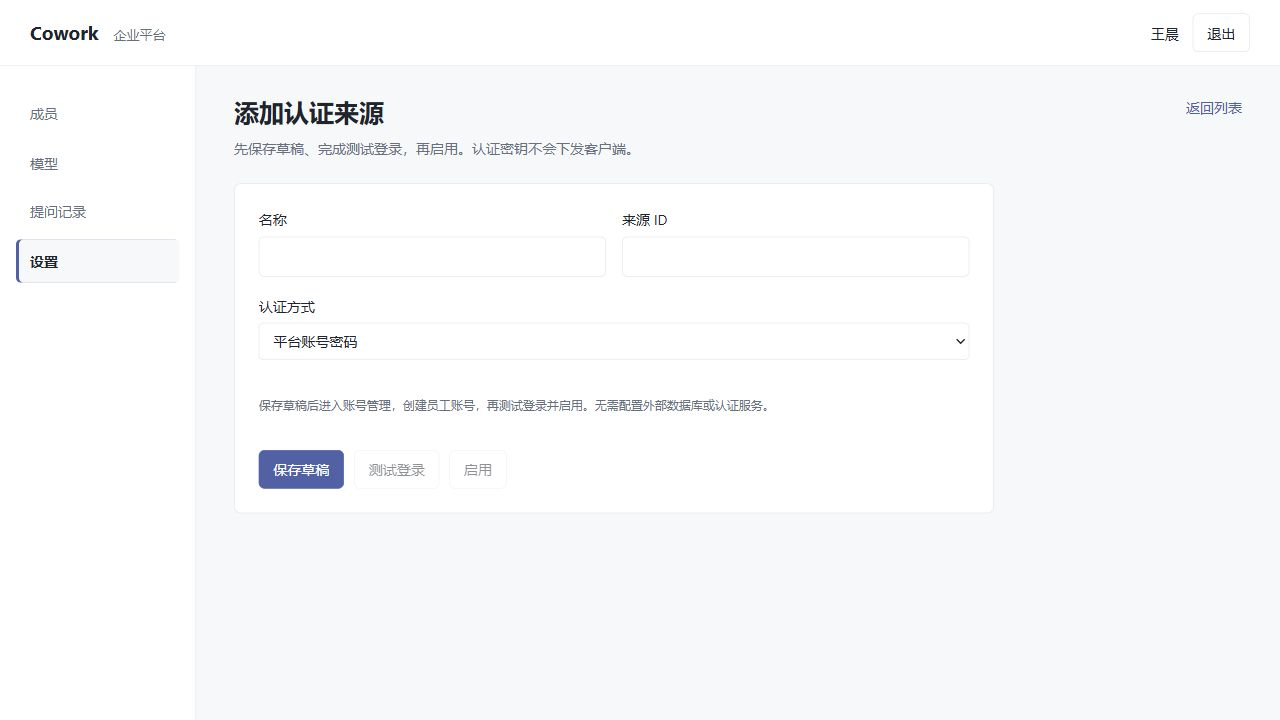
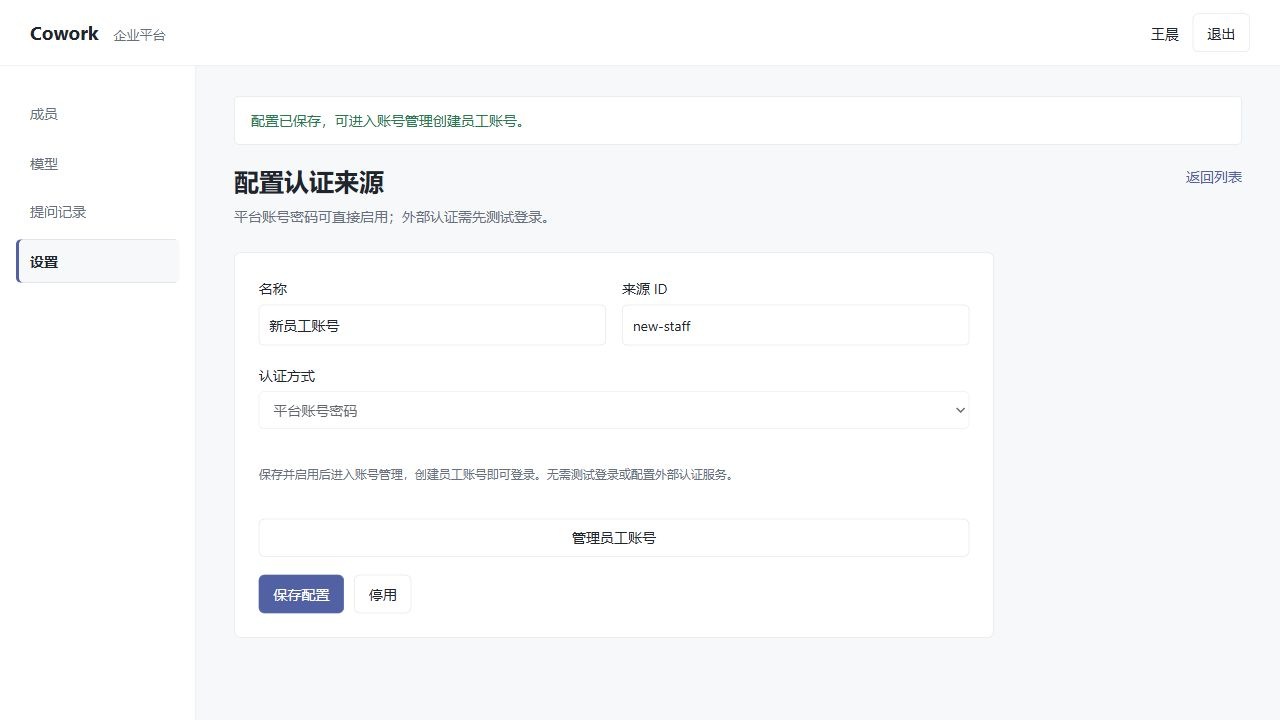
fix: 简化平台账号启用并修复浏览器密码登录

diff --git a/web/platform/ui/platform.js b/web/platform/ui/platform.js
@@ -94,14 +94,14 @@ async function questions(){
 }
 async function settingsPage(){
   const data=await api("/admin/settings");heading("设置","管理企业认证、客户端下载与运行状态。");
-  content.insertAdjacentHTML("beforeend",`<section><h2>账号认证</h2><div id="sources">${data.sources.length?data.sources.map(s=>`<div class="source-row"><div class="summary"><strong>${esc(s.name)}</strong><div class="muted">${esc(authNames[s.mode]||s.mode)} · ${s.enabled?"已启用":"草稿"} · ${s.verified?"已验证":"待验证"}</div></div><button data-source="${esc(s.id)}">配置</button></div>`).join(""):empty("尚未配置企业认证。添加来源并完成测试后，员工即可登录。")}</div><div class="toolbar" id="source-actions"></div></section><section class="section"><h2>客户端分发</h2><p>上传标准包，校验后生成企业包，再发布给员工。</p><a class="button" data-route href="${base}/app/releases">管理客户端版本</a> <a href="${base}/downloads" target="_blank" rel="noopener">打开下载页</a></section><section class="section"><h2>提问自动清理</h2><p>最近成功：${date(data.cleanup.last_success_at)} · 删除 ${data.cleanup.deleted} 条</p><p class="${data.cleanup.error?"danger":"muted"}">${esc(data.cleanup.error||"后台自动清理到期正文；客户端历史不受影响。")}</p></section><details><summary>平台信息与最近操作</summary><p class="code">${esc(data.platform_id)} · ${esc(data.public_url)}</p><p class="muted">会话期限 ${Math.round(data.session_seconds/3600)} 小时；上游刷新与全局退出未启用。</p><div class="table-wrap"><table><thead><tr><th>时间</th><th>操作</th><th>结果</th></tr></thead><tbody>${data.events.map(e=>`<tr><td>${date(e.created_at)}</td><td>${esc(e.action)}</td><td>${esc(e.outcome)}</td></tr>`).join("")}</tbody></table></div></details>`);
+  content.insertAdjacentHTML("beforeend",`<section><h2>账号认证</h2><div id="sources">${data.sources.length?data.sources.map(s=>`<div class="source-row"><div class="summary"><strong>${esc(s.name)}</strong><div class="muted">${esc(authNames[s.mode]||s.mode)} · ${s.enabled?"已启用":"草稿"} · ${s.mode==="database"?"无需测试":s.verified?"已验证":"待验证"}</div></div><button data-source="${esc(s.id)}">配置</button></div>`).join(""):empty("尚未配置企业认证。添加认证来源，为员工开通登录。")}</div><div class="toolbar" id="source-actions"></div></section><section class="section"><h2>客户端分发</h2><p>上传标准包，校验后生成企业包，再发布给员工。</p><a class="button" data-route href="${base}/app/releases">管理客户端版本</a> <a href="${base}/downloads" target="_blank" rel="noopener">打开下载页</a></section><section class="section"><h2>提问自动清理</h2><p>最近成功：${date(data.cleanup.last_success_at)} · 删除 ${data.cleanup.deleted} 条</p><p class="${data.cleanup.error?"danger":"muted"}">${esc(data.cleanup.error||"后台自动清理到期正文；客户端历史不受影响。")}</p></section><details><summary>平台信息与最近操作</summary><p class="code">${esc(data.platform_id)} · ${esc(data.public_url)}</p><p class="muted">会话期限 ${Math.round(data.session_seconds/3600)} 小时；上游刷新与全局退出未启用。</p><div class="table-wrap"><table><thead><tr><th>时间</th><th>操作</th><th>结果</th></tr></thead><tbody>${data.events.map(e=>`<tr><td>${date(e.created_at)}</td><td>${esc(e.action)}</td><td>${esc(e.outcome)}</td></tr>`).join("")}</tbody></table></div></details>`);
   content.querySelectorAll("[data-source]").forEach(b=>b.onclick=()=>navigate("/app/sources/"+b.dataset.source));
   document.getElementById("source-actions").append(button("添加认证来源",()=>navigate("/app/sources/new")));
   const entry=document.createElement("form");entry.className="toolbar";entry.innerHTML=`<label>客户端统一登录方式<select name="provider_id"><option value="">未指定（仅一个来源时自动使用）</option>${data.sources.map(source=>`<option value="${esc(source.id)}" ${source.id===data.login_provider?"selected":""} ${source.enabled&&source.verified?"":"disabled"}>${esc(source.name)}${source.enabled?"":"（未启用）"}</option>`).join("")}</select></label><button>保存登录入口</button>`;document.getElementById("source-actions").after(entry);watchForm(entry);entry.onsubmit=e=>{e.preventDefault();action(async()=>{await api("/admin/login-entry",{method:"PUT",body:{provider_id:entry.elements.provider_id.value,revision:data.login_revision}});dirty=false;await settingsPage();message("客户端登录入口已保存。","success");});};
 
 }
 async function editSource(source){
-  const preset=await api("/admin/auth-preset");heading(source?"配置认证来源":"添加认证来源","先保存草稿、完成测试登录，再启用。认证密钥不会下发客户端。","/app/settings");
+  const preset=await api("/admin/auth-preset");heading(source?"配置认证来源":"添加认证来源","平台账号密码可直接启用；外部认证需先测试登录。","/app/settings");
   content.insertAdjacentHTML("beforeend",`<form class="form" id="source-form"><div class="row"><label>名称<input required name="name" value="${esc(source?.name)}"></label><label>来源 ID<input required name="id" pattern="[A-Za-z0-9][A-Za-z0-9._-]{0,127}" value="${esc(source?.id)}" ${source?"readonly":""}></label></div><label>认证方式<select name="mode">${["database","oauth2","oidc","ldap"].map(v=>`<option value="${v}" ${source?.mode===v||(!source&&v==="database")?"selected":""}>${authNames[v]}</option>`).join("")}</select></label><label>连接参数<textarea name="config" class="code">${esc(JSON.stringify(source?.config||{},null,2))}</textarea></label><p class="help" id="source-help">OAuth2 预设的端点和字段可替换。PKCE 不支持时需明确配置 disabled；不能在失败后自动降级。</p><label>应用密钥 / LDAP 查询密码<input type="password" name="secret" autocomplete="new-password" placeholder="${source?"留空保留现有凭据":"在中心加密保存"}"></label><div class="actions-row"><button class="primary">保存草稿</button><button type="button" id="test-source" ${source?"":"disabled"}>测试登录</button><button type="button" id="toggle-source" ${source?"":"disabled"}>${source?.enabled?"停用":"启用"}</button></div><div id="ldap-test-fields" ${source?.mode==="ldap"?"":"hidden"}><h3>测试目录账号</h3><label>账号<input name="test_username" autocomplete="off"></label><label>密码<input name="test_password" type="password" autocomplete="new-password"></label></div></form>`);
   const form=document.getElementById("source-form");watchForm(form);form.elements.mode.onchange=()=>{dirty=true;const mode=form.elements.mode.value;document.getElementById("ldap-test-fields").hidden=mode!=="ldap";if(!source)form.elements.config.value=JSON.stringify(mode==="database"?{}:mode==="oauth2"?preset.config:mode==="oidc"?{issuer:"https://identity.example.com",discovery_url:"https://identity.example.com/.well-known/openid-configuration",client_id:"",pkce:"S256"}:{host:"directory.example.com",tls:"ldaps",base_dn:"dc=example,dc=com",user_filter:"(uid={username})",identity_attribute:"entryUUID",bind_dn:""},null,2);};
   if(source?.mode==="database"){const link=document.createElement("a");link.className="button";link.dataset.route="";link.href=base+"/app/sources/"+source.id+"/accounts";link.textContent="管理员工账号";form.querySelector(".actions-row").before(link);}
@@ -110,11 +110,11 @@ async function editSource(source){
   const advanced=document.createElement("details"),summary=document.createElement("summary");summary.textContent="高级协议参数（JSON）";advanced.append(summary);
   const configLabel=form.elements.config.closest("label");configLabel.before(advanced);advanced.append(configLabel);
   const fields={database:[],oauth2:[["client_id","应用标识"],["authorize_url","授权地址"],["token_url","令牌地址"],["userinfo_url","用户资料地址"],["subject_token_path","令牌中的稳定用户字段"],["subject_userinfo_path","资料中的稳定用户字段"]],oidc:[["client_id","应用标识"],["issuer","身份来源 issuer"],["discovery_url","OIDC 发现地址"]],ldap:[["host","目录服务器"],["tls","TLS 方式（ldaps / starttls）"],["base_dn","搜索根目录"],["user_filter","用户过滤条件"],["identity_attribute","稳定身份属性"],["bind_dn","查询账号 DN（可选）"]]};
-  const drawBasic=()=>{const local=form.elements.mode.value==="database";advanced.hidden=local;form.elements.secret.closest("label").hidden=local;document.getElementById("source-help").textContent=local?"保存草稿后进入账号管理，创建员工账号，再测试登录并启用。无需配置外部数据库或认证服务。":"OAuth2 预设的端点和字段可替换。PKCE 不支持时需明确配置 disabled；失败时不会自动降级。";const values=JSON.parse(form.elements.config.value);basic.innerHTML=fields[form.elements.mode.value].map(([key,label])=>`<label>${esc(label)}<input data-config="${key}" value="${esc(values[key]||"")}"></label>`).join("");for(const [key] of fields[form.elements.mode.value])delete values[key];form.elements.config.value=JSON.stringify(values,null,2);};
+  const drawBasic=()=>{const local=form.elements.mode.value==="database";advanced.hidden=local;document.getElementById("test-source").hidden=local;document.getElementById("toggle-source").hidden=local&&!source;form.querySelector("button.primary").textContent=local?(source?"保存配置":"保存并启用"):"保存草稿";form.elements.secret.closest("label").hidden=local;document.getElementById("source-help").textContent=local?"保存并启用后进入账号管理，创建员工账号即可登录。无需测试登录或配置外部认证服务。":"OAuth2 预设的端点和字段可替换。PKCE 不支持时需明确配置 disabled；失败时不会自动降级。";const values=JSON.parse(form.elements.config.value);basic.innerHTML=fields[form.elements.mode.value].map(([key,label])=>`<label>${esc(label)}<input data-config="${key}" value="${esc(values[key]||"")}"></label>`).join("");for(const [key] of fields[form.elements.mode.value])delete values[key];form.elements.config.value=JSON.stringify(values,null,2);};
   drawBasic();form.elements.mode.onchange=()=>{originalModeChange();form.elements.secret.value="";drawBasic();};form.elements.mode.disabled=!!source;
   const payload=enabled=>{const v=formData(form),mode=source?.mode||v.mode,config=JSON.parse(v.config);basic.querySelectorAll("[data-config]").forEach(input=>{if(input.value.trim())config[input.dataset.config]=input.value.trim();});return {id:v.id,name:v.name,mode,config,secrets:mode==="database"?{}:v.secret?{[mode==="ldap"?"bind_password":"client_secret"]:v.secret}:{},revision:source?.revision,enabled};};
   const reload=async text=>{const id=form.elements.id.value,data=await api("/admin/settings");source=data.sources.find(x=>x.id===id);dirty=false;history.replaceState({},"",base+"/app/sources/"+id);await editSource(source);message(text,"success");};
-  form.onsubmit=e=>{e.preventDefault();action(async()=>{const p=payload(false);await api("/admin/auth-sources/"+encodeURIComponent(p.id),{method:"PUT",body:p});await reload("草稿已保存，请完成测试登录后启用。");});};
+  form.onsubmit=e=>{e.preventDefault();action(async()=>{const local=form.elements.mode.value==="database",p=payload(local?(source?.enabled??true):false);await api("/admin/auth-sources/"+encodeURIComponent(p.id),{method:"PUT",body:p});await reload(local?"配置已保存，可进入账号管理创建员工账号。":"草稿已保存，请完成测试登录后启用。");});};
   document.getElementById("test-source").onclick=()=>action(async()=>{if(dirty)throw new Error("请先保存连接参数。");if(source.mode==="ldap"){await api("/auth/ldap",{method:"POST",body:{provider_id:source.id,username:form.elements.test_username.value,password:form.elements.test_password.value,test:true}});await reload("目录认证测试通过，可以启用。");}else{const result=await api("/auth/transactions",{method:"POST",body:{provider_id:source.id,mode:"web",test:true}});const opened=window.open(result.login_url,"_blank","noopener");message("请在浏览器完成测试登录，然后返回此页点击启用。若未打开，请允许此站点打开登录窗口。");}});
   document.getElementById("toggle-source").onclick=()=>action(async()=>{if(dirty)throw new Error("请先保存修改。");await api("/admin/auth-sources/"+source.id,{method:"PUT",body:payload(!source.enabled)});await reload(source.enabled?"认证来源已停用。":"认证来源已启用。");});
 }
@@ -124,7 +124,7 @@ async function databaseAccountsPage(sourceId,accountId){
   if(!accountId){
     heading((source?.name||"平台账号密码")+" · 员工账号","管理员创建账号后即可分配模型；密码重设和停用会使旧登录失效。","/app/sources/"+sourceId);
     content.querySelector(".page-title").append(button("创建员工账号",()=>navigate(path+"/new"),{primary:true}));
-    content.insertAdjacentHTML("beforeend",data.items.length?`<div class="table-wrap"><table><thead><tr><th>账号 / 姓名</th><th>状态</th><th>操作</th></tr></thead><tbody>${data.items.map(a=>`<tr><td>${esc(a.username)}<span class="secondary-line">${esc(a.name)}</span></td><td>${a.enabled?"启用":"停用"} · ${a.role==="admin"?"管理员":"成员"}</td><td><a data-route href="${base+path+"/"+a.id}">账号与密码</a> · <a data-route href="${base}/app/members/${a.id}">模型与权限</a></td></tr>`).join("")}</tbody></table></div>`:empty("还没有员工账号。创建后，请返回认证来源测试登录并启用。"));return;
+    content.insertAdjacentHTML("beforeend",data.items.length?`<div class="table-wrap"><table><thead><tr><th>账号 / 姓名</th><th>状态</th><th>操作</th></tr></thead><tbody>${data.items.map(a=>`<tr><td>${esc(a.username)}<span class="secondary-line">${esc(a.name)}</span></td><td>${a.enabled?"启用":"停用"} · ${a.role==="admin"?"管理员":"成员"}</td><td><a data-route href="${base+path+"/"+a.id}">账号与密码</a> · <a data-route href="${base}/app/members/${a.id}">模型与权限</a></td></tr>`).join("")}</tbody></table></div>`:empty("还没有员工账号。创建账号后，员工即可通过已启用的来源登录。"));return;
   }
   const account=data.items.find(x=>x.id===accountId);
   if(accountId!=="new"&&!account)throw new Error("账号不存在，请返回列表。");

diff --git a/test/test_enterprise_database_auth.py b/test/test_enterprise_database_auth.py
@@ -53,8 +53,6 @@ def submit(client,tx,password=PASSWORD,username='employee'):
 
 def enable(local_auth):
     client,app,settings,headers,source,account=local_auth
-    tx=transaction(client,test=True,headers=headers)
-    assert submit(client,tx).status_code==200
     response=client.put('/api/v1/admin/auth-sources/staff',headers=headers,json={**source,'revision':1,'enabled':True})
     assert response.status_code==200,response.text
 
@@ -70,10 +68,9 @@ def exchange(client,tx):
     return client.post(prefix+'/exchange',json={'verifier':tx['verifier'],'handoff_code':status.get('handoff_code','')})
 
 
-def test_admin_create_test_enable_employee_web_login(local_auth):
+def test_admin_create_enable_employee_web_login(local_auth):
     client,app,settings,headers,source,account=local_auth
     assert client.post('/api/v1/auth/transactions',json={'provider_id':'staff','mode':'web'}).status_code==404
-    assert client.put('/api/v1/admin/auth-sources/staff',headers=headers,json={**source,'revision':1,'enabled':True}).status_code==400
     enable(local_auth)
     tx=transaction(client)
     bad=submit(client,tx,password='wrong')
@@ -88,6 +85,36 @@ def test_admin_create_test_enable_employee_web_login(local_auth):
     with app.state.database.transaction() as db:
         credential=db.get(DatabaseAccount,account['id'])
         assert len(credential.password_hash)==128 and credential.password_hash!=PASSWORD
+
+
+def test_enable_empty_source_then_create_account(server):
+    client,app,settings=server
+    assert create_admin(client,settings).status_code==200
+    headers={'Authorization':'Bearer '+client.cookies['cowork_session']}
+    source={'id':'staff','name':'员工账号','mode':'database','config':{},'secrets':{},'enabled':True}
+    assert client.put('/api/v1/admin/auth-sources/staff',headers=headers,json=source).status_code==200
+    assert client.put('/api/v1/admin/login-entry',headers=headers,json={'provider_id':'staff','revision':0}).status_code==200
+    assert client.post('/api/v1/admin/auth-sources/staff/accounts',headers=headers,json={
+        'username':'employee','name':'测试员工','password':PASSWORD}).status_code==200
+    tx=transaction(client)
+    assert submit(client,tx).status_code==303
+
+
+def test_native_form_origin_policy_and_csrf(local_auth):
+    client,app,settings,headers,source,account=local_auth
+    enable(local_auth)
+    tx=transaction(client)
+    assert client.get(tx['form_url']).headers['referrer-policy']=='strict-origin'
+    for origin in ('null','https://other.example'):
+        response=client.post(tx['form_url'],headers={'Origin':origin},data={
+            'state':tx['state'],'username':'employee','password':PASSWORD})
+        assert response.status_code==403 and response.json()['error']['code']=='origin_rejected'
+    response=client.post(tx['form_url'],headers={'Origin':settings.origin},data={
+        'state':tx['state'],'username':'employee','password':'wrong'})
+    assert response.status_code==401 and response.headers['referrer-policy']=='strict-origin'
+    assert client.post(tx['form_url'],headers={'Origin':settings.origin},data={
+        'state':tx['state'],'username':'employee','password':PASSWORD},follow_redirects=False).status_code==303
+    assert client.get('/app').headers['referrer-policy']=='no-referrer'
 
 
 def test_duplicate_username_and_source_isolation(local_auth):

diff --git a/web/platform/server/app.py b/web/platform/server/app.py
@@ -147,11 +147,14 @@ def create_app(settings=None, *, transport=None):
         request.state.request_id = uuid.uuid4().hex
         origin = request.headers.get("origin")
         if request.method not in {"GET", "HEAD", "OPTIONS"} and origin and origin != settings.origin:
+            log.warning("request.origin_rejected request=%s method=%s reason=%s",
+                        request.state.request_id, request.method,
+                        "opaque_origin" if origin == "null" else "origin_mismatch")
             return JSONResponse({"error": {"code": "origin_rejected", "message": "请求来源不匹配，请从平台页面重新操作。"}}, status_code=403)
         response = await call_next(request)
         response.headers["X-Request-ID"] = request.state.request_id
         response.headers["X-Content-Type-Options"] = "nosniff"
-        response.headers["Referrer-Policy"] = "no-referrer"
+        response.headers.setdefault("Referrer-Policy", "no-referrer")
         response.headers["Content-Security-Policy"] = "default-src 'self'; script-src 'self'; style-src 'self'; img-src 'self' data:; frame-ancestors 'none'; base-uri 'self'; form-action 'self'"
         response.headers["Cache-Control"] = "no-store"
         return response
@@ -237,7 +240,10 @@ def create_app(settings=None, *, transport=None):
             + "<form class='form' method='post' action='" + action + "'><input type='hidden' name='state' value='"
             + html.escape(transaction["state"], quote=True) + "'><label>账号<input name='username' autocomplete='username' required maxlength='512' value='"
             + html.escape(username, quote=True) + "'></label><label>密码<input name='password' type='password' autocomplete='current-password' required maxlength='4096'></label>"
-            "<button class='primary'>登录</button></form></section></main></html>", status_code=status)
+            "<button class='primary'>登录</button></form></section></main></html>", status_code=status,
+            # no-referrer makes native form POSTs send Origin: null. Keep the
+            # origin for CSRF validation without disclosing transaction paths.
+            headers={"Referrer-Policy": "strict-origin"})
 
     @app.get("/auth/directory/{transaction_id}")
     def directory_login_page(transaction_id: str, request: Request):

diff --git a/web/platform/server/auth.py b/web/platform/server/auth.py
@@ -148,6 +148,8 @@ class Authentication:
                     source.revision += 1
             source.name, source.mode, source.config = payload["name"].strip(), payload["mode"], config
             source.secret = self.vault.seal(secrets)
+            if source.mode == "database":
+                source.verified_revision = source.revision
             enabled = bool(payload.get("enabled"))
             if enabled and source.verified_revision != source.revision and not bootstrap:
                 raise PlatformError("verification_required", "请先保存草稿并完成测试登录，再启用此配置。")

diff --git a/web/platform/README.md b/web/platform/README.md
@@ -23,7 +23,7 @@
 
 1. 启动容器后打开 `/app`，空平台自动显示“初始化企业平台”。
 2. 在网页填写管理员账号、密码及确认密码，直接创建首位管理员。账号为 3–64 位字母、数字、点、横线或下划线；密码至少 12 个字符。
-3. 创建后直接进入“设置”，点击“添加认证来源”，选择平台账号密码，或填写 OAuth2、OIDC、LDAP 参数；保存草稿、完成测试登录、启用。
+3. 创建后直接进入“设置”，点击“添加认证来源”，选择平台账号密码后直接保存并启用；OAuth2、OIDC、LDAP 则填写参数、保存草稿、完成测试登录后启用。
 4. 员工使用企业认证登录，默认是普通成员；首位管理员在“成员 → 管理与分配”授予或收回管理员角色。其他管理员不能转授管理员角色。
 5. 管理员使用登录页的“平台管理员登录”。尚无启用的企业认证时，网页直接显示管理员登录。
 
@@ -110,9 +110,9 @@ sh start.sh
 
 不依赖外部身份平台，员工账号与密码校验值存储在本平台的 PostgreSQL 中。客户端仍使用“登录企业账号”入口，在平台网页输入账号密码，完成后自动回到客户端。
 
-1. “设置 → 添加认证来源”选择“平台账号密码”，填写名称和来源 ID，保存草稿；无需填写外部数据库或协议参数。
+1. “设置 → 添加认证来源”选择“平台账号密码”，填写名称和来源 ID，点击“保存并启用”；无需填写外部数据库或协议参数。
 2. 点击“管理员工账号 → 创建员工账号”，填写账号、成员姓名和初始密码（至少 12 个字符）。账号名称创建后不可更改；相同来源不能重名，不同来源的同名账号属于不同成员。
-3. 回到认证来源页，点击“测试登录”，用新建员工账号登录；测试成功后回到管理页启用该来源。
+3. 平台账号密码无需测试登录；可以先启用来源再创建账号。已有草稿直接点击“启用”即可。
 4. 有多个启用来源时，在“设置 → 客户端统一登录方式”选择该来源并保存。只有一个来源时自动使用它。
 5. 在账号列表的“模型与权限”或“成员”页分配模型。新建账号默认是普通成员，管理员角色仍只能由首位管理员授权。
 
@@ -157,7 +157,7 @@ sh start.sh
 
 LDAP 使用 `mode: "ldap"`，配置 `host`、`port`、`tls`（`ldaps` 或 `starttls`）、`base_dn`、`user_filter`（例如 `(uid={username})`）、`identity_attribute`（例如 `entryUUID`），可选 `bind_dn` 和 `ca_file`。查询账号密码放在 `secrets.bind_password`。`ca_file` 是容器内管理员挂载的 CA 文件路径。身份属性必须稳定，不能以登录名或 DN 变化伪装为同一成员。查询用户后再用其 DN 和用户密码绑定；不保存用户密码。
 
-已有认证配置变更须保存草稿、完成测试登录后再启用。不同认证来源的相同用户标识不会合并。停用成员会撤销中心会话，不能通过重新登录再次加入。
+OAuth2、OIDC、LDAP 配置变更须保存草稿、完成测试登录后再启用；平台账号密码无需测试，保存配置保留当前启用状态。不同认证来源的相同用户标识不会合并。停用成员会撤销中心会话，不能通过重新登录再次加入。
 
 ## 子路径与原生进程部署
 
@@ -219,6 +219,6 @@ python -m pytest -q test/test_enterprise_deployment.py test/test_enterprise_plat
 
 真实企业 SSO/LDAP、实际模型端点、干净 Windows 机器首次安装和 Linux/PostgreSQL 压测仍需部署联调。2026-10-17 在本机 Docker Desktop 的 Linux 容器中完成应用镜像构建及 PostgreSQL 17 启动，两项容器健康检查通过，`/healthz`、`/api/v1/platform-info`、`/api/v1/auth/providers` 和 `/app` 均返回 200。已导出本机启动镜像包；未生成或发布正式 Windows 企业客户端发行包。
 
-数据库账号及原有企业流程的聚焦回归为 `python -m pytest -q test/test_enterprise_database_auth.py test/test_enterprise_setup.py test/test_enterprise_platform.py test/test_enterprise_client.py test/test_enterprise_deployment.py`，52 项测试及 3 个子测试通过，包含现有桌面客户端完成账号密码浏览器登录并取得模型授权。Docker PostgreSQL 独立 schema 另行验证并发同名创建只成功一次、认证测试/启用、桌面交接和重设密码撤销令牌。
+数据库账号及原有企业流程的聚焦回归为 `python -m pytest -q test/test_enterprise_database_auth.py test/test_enterprise_setup.py test/test_enterprise_platform.py test/test_enterprise_client.py test/test_enterprise_deployment.py`，54 项测试及 3 个子测试通过，包含无账号时直接启用来源、原生表单来源校验、现有桌面客户端完成账号密码浏览器登录并取得模型授权。Docker PostgreSQL 独立 schema 另行验证并发同名创建只成功一次、认证测试/启用、桌面交接和重设密码撤销令牌。
 
 UI 验收夹具可用 `python test/enterprise_ui_fixture.py` 启动；仅绑定本机 8787 端口（使用 `http://127.0.0.1:8787/qa/login`，与 localhost 服务隔离 Cookie），数据位于临时目录，`/qa/login` 仅存在于此测试脚本，生产应用没有该入口。测试完成须停止夹具。

diff --git a/docs/enterprise-platform.md b/docs/enterprise-platform.md
@@ -54,7 +54,7 @@ Linux 部署、首次管理员、OIDC/OAuth2/LDAP 参数、发布和备份规则
 
 ## 使用平台账号密码登录
 
-管理员可在“设置 → 添加认证来源”选择“平台账号密码”，保存后进入“管理员工账号”，创建员工账号与初始密码；测试登录通过后启用。有多个认证来源时，在设置页保存“客户端统一登录方式”。随后在“模型与权限”分配员工可用模型。
+管理员可在“设置 → 添加认证来源”选择“平台账号密码”，点击“保存并启用”后进入“管理员工账号”，创建员工账号与初始密码，无需测试登录。已有草稿直接启用即可。有多个认证来源时，在设置页保存“客户端统一登录方式”。随后在“模型与权限”分配员工可用模型。
 
 员工在客户端点击“登录企业账号”，在打开的网页登录页输入管理员提供的账号密码，完成后自动回到客户端。账号与模型权限由企业平台管理，本机对话不上传或同步。
 
